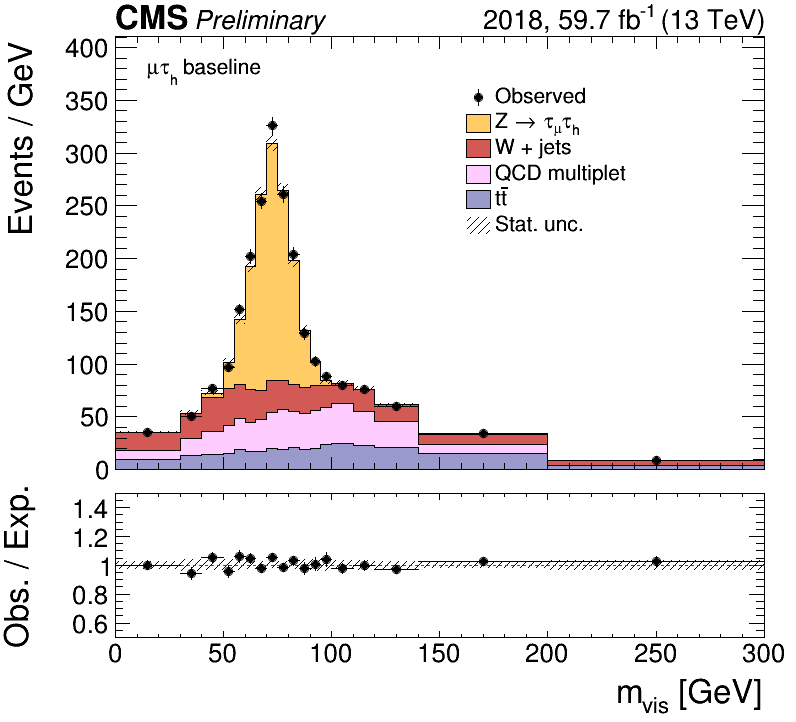
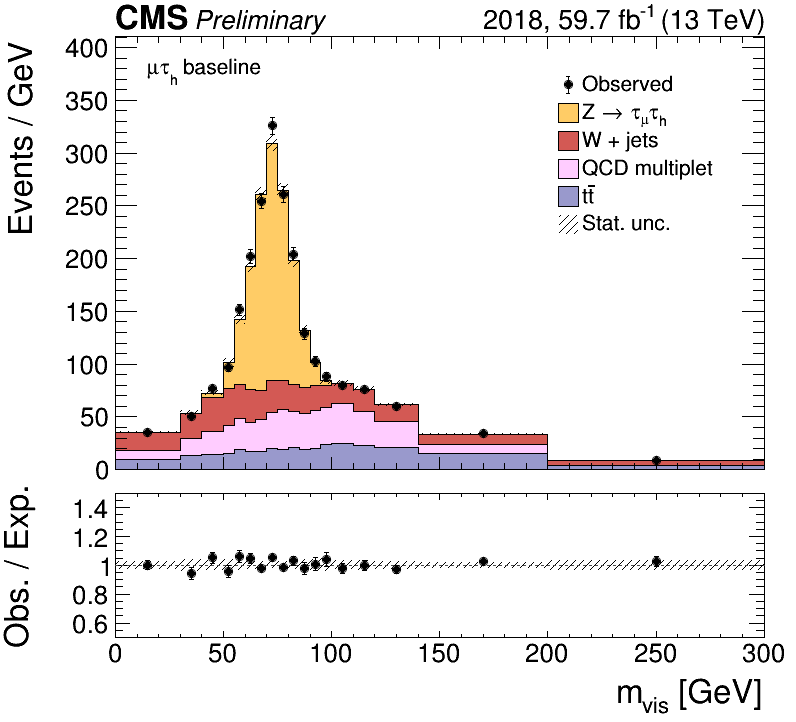
fix bar at end of error bar (errorX)

Changed region(s): [[0.5729, 0.0914, 0.9045, 0.3352]]

diff --git a/Plotter/python/plot/utils.py b/Plotter/python/plot/utils.py
@@ -8,7 +8,7 @@ from TauFW.common.tools.log import Logger
 from TauFW.Plotter.plot import moddir
 import TauFW.Plotter.plot.CMSStyle as CMSStyle
 import ROOT; ROOT.PyConfig.IgnoreCommandLineOptions = True
-from ROOT import gDirectory, gROOT, TH1, THStack, TGraphErrors, TGraphAsymmErrors, Double,\
+from ROOT import gDirectory, gROOT, gStyle, TH1, THStack, TGraphErrors, TGraphAsymmErrors, Double,\
                  kSolid, kDashed, kDotted, kBlack, kWhite
 #moddir = os.path.dirname(__file__)
 gROOT.SetBatch(True)
@@ -265,7 +265,8 @@ def gethistratio(histnum,histden,**kwargs):
   hname     = kwargs.get('name',     hname )
   tag       = kwargs.get('tag',      ""    )
   yinf      = kwargs.get('yinf',     1e12  ) # if denominator is 0
-  zero      = kwargs.get('zero', True  ) # ratio=1 if both num and den bins are zero
+  zero      = kwargs.get('zero',     True  ) # ratio=1 if both num and den bins are zero
+  errorX    = kwargs.get('errorX', gStyle.GetErrorX() ) # horizontal error bars
   if tag:
     hname += tag
   if isinstance(histden,THStack):
@@ -326,6 +327,7 @@ def getgraphratio(graphnum,histden,**kwargs):
   eval      = kwargs.get('eval',     False ) # use interpolation
   yinf      = kwargs.get('yinf',     1e12  ) # if denominator is 0
   zero      = kwargs.get('zero',     True  ) # ratio=1 if both num and den bins are zero
+  errorX    = kwargs.get('errorX',   gStyle.GetErrorX()  ) # horizontal error bars
   #color     = kwargs.get('color',    None  )
   nbins     = histden.GetXaxis().GetNbins()
   if tag:
@@ -343,7 +345,7 @@ def getgraphratio(graphnum,histden,**kwargs):
   if isinstance(histden,TH1):
     for ibin in range(0,nbins+2):
       xval = histden.GetXaxis().GetBinCenter(ibin)
-      xerr = histden.GetXaxis().GetBinWidth(ibin)/2
+      xerr = histden.GetXaxis().GetBinWidth(ibin)/2 if errorX else 0
       yden = histden.GetBinContent(ibin)
       ig   = -1
       if eval:
@@ -379,7 +381,7 @@ def getgraphratio(graphnum,histden,**kwargs):
 def geterrorband(*hists,**kwargs):
   """Make an error band histogram for a list of histograms, or stack.
   Returns an TGraphAsymmErrors object."""
-  verbosity = LOG.getverbosity(kwargs)
+  verbosity = LOG.getverbosity(kwargs)+3
   hists     = unwraplistargs(hists)
   hists     = [h.GetStack().Last() if isinstance(h,THStack) else h for h in hists]
   sysvars   = kwargs.get('sysvars',     [ ]    ) # list of tuples with up/cent/down variation histograms
@@ -426,7 +428,8 @@ def dividebybinsize(hist,**kwargs):
   verbosity = LOG.getverbosity(kwargs)
   LOG.verbose('dividebybinsize: "%s"'%(hist.GetName()),verbosity,2)
   zero     = kwargs.get('zero',     True ) # include bins that are zero in TGraph
-  zeroerrs = kwargs.get('zeroerrs', True )
+  zeroerrs = kwargs.get('zeroerrs', True ) # include errors for zero bins
+  errorX   = kwargs.get('errorX', gStyle.GetErrorX() ) # horizontal error bars
   nbins    = hist.GetXaxis().GetNbins()
   TAB = LOG.table("%5s %8.6g %8.6g %10.3f %9.4f %8.4f %8.4f %10.4f",verb=verbosity,level=3)
   TAB.printheader("ibin","xval","width","yval","yerr","yupp","ylow","yerr/width")
@@ -439,6 +442,7 @@ def dividebybinsize(hist,**kwargs):
     for ibin in xrange(1,nbins+1):
       xval  = hist.GetXaxis().GetBinCenter(ibin)
       width = hist.GetXaxis().GetBinWidth(ibin)
+      xerr  = width/2 if errorX else 0
       yval  = hist.GetBinContent(ibin)
       yerr  = hist.GetBinError(ibin)
       yupp  = hist.GetBinErrorUp(ibin)
@@ -449,9 +453,9 @@ def dividebybinsize(hist,**kwargs):
       if yval!=0 or zero:
         graph.SetPoint(ip,xval,yval/width)
         if yval!=0 or zeroerrs:
-          graph.SetPointError(ip,width/2,width/2,ylow/width,yupp/width)
+          graph.SetPointError(ip,xerr,xerr,ylow/width,yupp/width)
         else:
-          graph.SetPointError(ip,width/2,width/2,0,0)
+          graph.SetPointError(ip,xerr,xerr,0,0)
         ip += 1
     return graph
   else:

diff --git a/Plotter/python/plot/Ratio.py b/Plotter/python/plot/Ratio.py
@@ -7,7 +7,7 @@
 import os, re
 from TauFW.Plotter.plot.utils import *
 import ROOT
-from ROOT import gPad, TH1, THStack, TProfile, TGraph, TGraphAsymmErrors, TLine
+from ROOT import gStyle, gPad, TH1, THStack, TProfile, TGraph, TGraphAsymmErrors, TLine
 
 
 class Ratio(object):
@@ -25,6 +25,7 @@ class Ratio(object):
     errband        = kwargs.get('errband',     None        ) # error band (e.g. stat. and/or sys. unc.)
     option         = kwargs.get('option',      ""          )
     denom          = kwargs.get('denom',       None        )
+    errorX         = kwargs.get('errorX', gStyle.GetErrorX() ) # horizontal error bars
     histnums       = unwraplistargs(histnums)
     
     # SETUP NUMERATOR/DENOMINATOR
@@ -53,10 +54,10 @@ class Ratio(object):
     for i, histnum in enumerate(histnums):
       tag = str(i)
       if isinstance(histnum,TH1) or isinstance(histnum,THStack):
-        ratio = gethistratio(histnum,histden,tag=tag,drawzero=self.drawzero)
+        ratio = gethistratio(histnum,histden,tag=tag,drawzero=self.drawzero,errorX=errorX)
       elif isinstance(histnum,TGraph):
         LOG.warning("Ratio.init: TGraph ratio not validated! Please check verbose output...")
-        ratio = getgraphratio(histnum,histden,tag=tag,drawzero=self.drawzero)
+        ratio = getgraphratio(histnum,histden,tag=tag,drawzero=self.drawzero,errorX=errorX)
       #elif isinstance(hist,TProfile):
       #  histtemp = hist.ProjectionX(hist.GetName()+"_projx",'E')
       #  copystyle(histtemp,hist)
@@ -76,7 +77,7 @@ class Ratio(object):
     
     # MAKE ERROR BAND RATIO
     if isinstance(errband,TGraphAsymmErrors):
-      self.errband = getgraphratio(errband,histden)
+      self.errband = getgraphratio(errband,histden,errorX=True)
       copystyle(self.errband,errband)
       #seterrorbandstyle(self.errband,style='hatched',color=errband.GetFillColor())
     
@@ -139,7 +140,7 @@ class Ratio(object):
       elif (ratio.GetLineWidth()==0 or 'E' in ratio.GetOption()) and ratio.GetMarkerSize()>0:
         roption = ratio.GetOption() if 'E' in ratio.GetOption() else 'E'
       else:
-        roption = 'HIST' if isinstance(ratio,TH1) else 'PEZ0'
+        roption = 'HIST' if isinstance(ratio,TH1) else 'PE0'
       roption += 'SAME'
       ratio.Draw(roption)
       LOG.verb("Ratio.draw: ratio=%s, roption=%r"%(ratio,roption),verbosity,2)

diff --git a/Plotter/python/plot/Stack.py b/Plotter/python/plot/Stack.py
@@ -109,7 +109,7 @@ class Stack(Plot):
       datahists = [self.datahist]
       for hlist in [datahists,self.exphists,self.sighists]:
         for i, oldhist in enumerate(hlist):
-          newhist = dividebybinsize(oldhist,zero=True,zeroerrs=False)
+          newhist = dividebybinsize(oldhist,zero=True,zeroerrs=False,errorX=errorX)
           if oldhist!=newhist:
             LOG.verb("Plot.draw: replace %s -> %s"%(oldhist,newhist),verbosity,2)
             hlist[i] = newhist
@@ -155,8 +155,8 @@ class Stack(Plot):
         self.datahist.Draw(doption+' SAME')
         self.datahist.SetOption(doption+' SAME') # for legend and ratio
       else:
-        self.datahist.Draw(doption+'PZ SAME')
-        self.datahist.GetOption = lambda: 'PZE0 SAME' # for legend and ratio
+        self.datahist.Draw(doption+'PE0 SAME')
+        self.datahist.GetOption = lambda: 'PE0 SAME' # for legend and ratio
     
     # STYLE
     if stack:
@@ -187,7 +187,7 @@ class Stack(Plot):
       self.canvas.cd(2)
       histden    = stack
       histnums   = [self.datahist]+self.sighists
-      self.ratio = Ratio(histden,histnums,errband=self.errband,drawzero=True,option=roption)
+      self.ratio = Ratio(histden,histnums,errband=self.errband,drawzero=True,errorX=errorX,option=roption)
       self.ratio.draw(xmin=xmin,xmax=xmax,data=True)
       self.setaxes(self.ratio,xmin=xmin,xmax=xmax,ymin=rmin,ymax=rmax,logx=logx,binlabels=binlabels,center=True,nydiv=506,
                    ratiorange=ratiorange,xtitle=xtitle,ytitle=rtitle,xtitleoffset=xtitleoffset,grid=grid,latex=latex)
